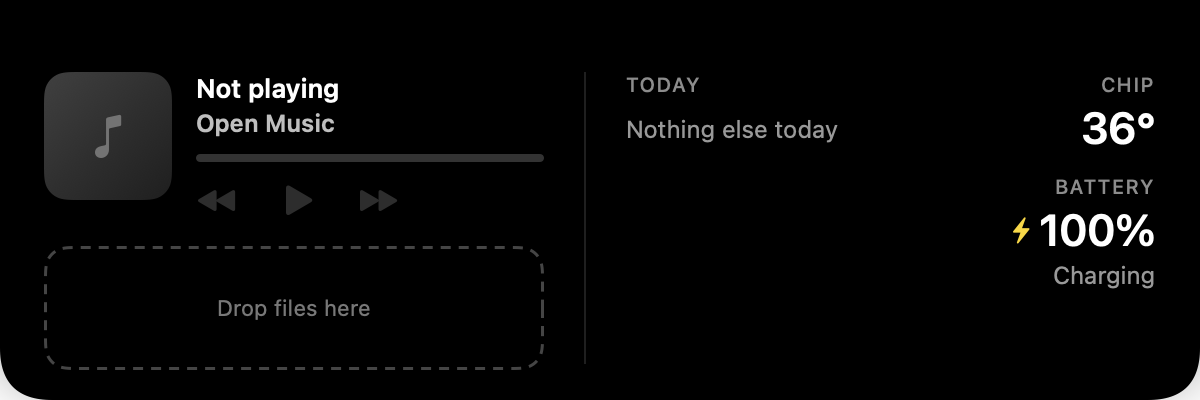
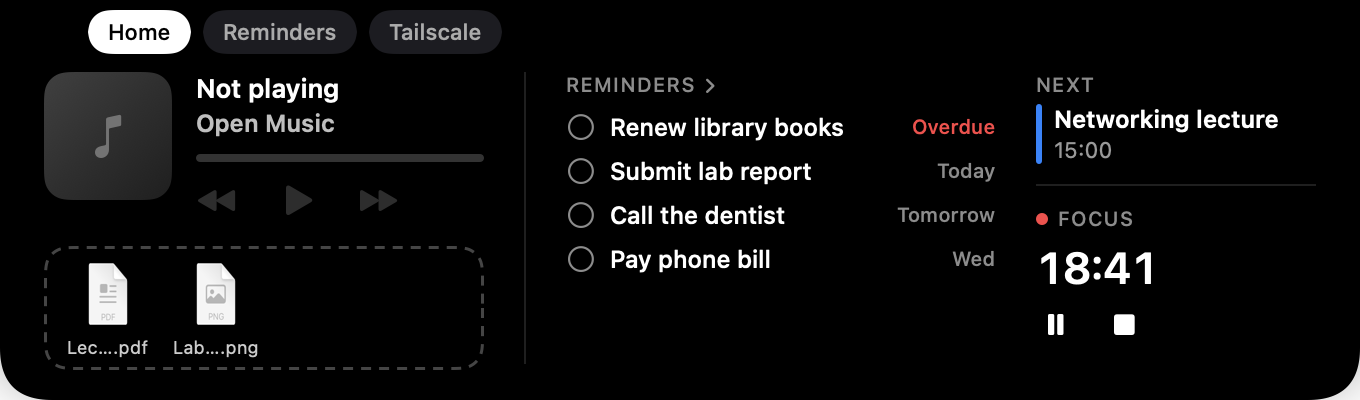
Update README screenshot to the new layout (demo data)

diff --git a/Notchpad/App/AppModel.swift b/Notchpad/App/AppModel.swift
@@ -38,9 +38,13 @@ final class AppModel: ObservableObject {
     @Published var tailscaleMessage: String?
     @Published var copiedDeviceID: String?
 
-    let shelf = ShelfStore(storageURL: FileManager.default
-        .urls(for: .applicationSupportDirectory, in: .userDomainMask)[0]
-        .appendingPathComponent("Notchpad/shelf.json"))
+    /// `--demo`: made-up data for README screenshots, so no real reminders or files show.
+    static let isDemo = CommandLine.arguments.contains("--demo")
+
+    let shelf = ShelfStore(storageURL: AppModel.isDemo
+        ? FileManager.default.temporaryDirectory.appendingPathComponent("notchpad-demo/shelf.json")
+        : FileManager.default.urls(for: .applicationSupportDirectory, in: .userDomainMask)[0]
+            .appendingPathComponent("Notchpad/shelf.json"))
     /// Set by the window controller: keeps the panel open while a file is dragged out.
     var onShelfDragActive: ((Bool) -> Void)?
 
@@ -77,6 +81,7 @@ final class AppModel: ObservableObject {
         music = isMusicRunning ? .idle : .notRunning
         if let tab = DebugTools.argument(after: "--tab").flatMap(PanelTab.init(rawValue:)) { selectedTab = tab }
         if CommandLine.arguments.contains("--focus-demo") { startFocus(.focus, minutes: 25) }
+        if Self.isDemo { loadDemo() }
         if let s = DebugTools.argument(after: "--focus-seconds").flatMap(Double.init) {
             focus.start(.focus, seconds: s, now: Date())
             askForNotificationsOnce()
@@ -262,6 +267,7 @@ final class AppModel: ObservableObject {
 
     /// Asks Music for the current track, position and artwork. Never launches Music.
     private func refreshMusic() {
+        guard !Self.isDemo else { return }
         guard isMusicRunning else {
             music = .notRunning
             artwork = nil
@@ -347,6 +353,7 @@ final class AppModel: ObservableObject {
     // MARK: Reminders
 
     private func refreshReminders() {
+        guard !Self.isDemo else { return }
         remindersAccess = remindersReader.access
         guard remindersAccess == .granted else { reminders = []; return }
         Task {
@@ -377,6 +384,7 @@ final class AppModel: ObservableObject {
     }
 
     private func refreshEvents() {
+        guard !Self.isDemo else { return }
         calendarAccess = calendarReader.access
         events = DayEvents.upcoming(calendarReader.todaysEvents(now: Date()), now: Date(), calendar: .current)
     }
@@ -392,5 +400,43 @@ private struct FixtureRunner: CommandRunning {
     let path: String
     func run(_ executable: String, _ arguments: [String]) -> (exitCode: Int32, output: Data)? {
         (0, arguments.first == "status" ? ((try? Data(contentsOf: URL(fileURLWithPath: path))) ?? Data()) : Data())
+    }
+}
+
+// MARK: Demo data (README screenshots only)
+
+extension AppModel {
+    fileprivate func loadDemo() {
+        let cal = Calendar.current
+        let now = Date()
+        let today = cal.startOfDay(for: now)
+        func day(_ d: Int) -> Date { cal.date(byAdding: .day, value: d, to: today)! }
+        func item(_ title: String, _ due: Date?, list: String = "Personal", order: Int = 0) -> ReminderSummary {
+            ReminderSummary(id: title, title: title, listID: list, listTitle: list, listOrder: order, due: due, dueHasTime: false)
+        }
+        reminders = [
+            item("Renew library books", day(-1)),
+            item("Submit lab report", day(0)),
+            item("Call the dentist", day(1)),
+            item("Pay phone bill", day(3)),
+            item("Plan weekend trip", nil),
+            item("Milk", nil, list: "Shopping", order: 1),
+        ]
+        remindersAccess = .granted
+        let start = cal.date(bySettingHour: 15, minute: 0, second: 0, of: today)!
+        events = [EventSummary(id: "demo", title: "Networking lecture", start: start,
+                               end: start.addingTimeInterval(7200), isAllDay: false,
+                               red: 0.04, green: 0.52, blue: 1)]
+        calendarAccess = .granted
+        music = .notRunning
+        focus.start(.focus, seconds: 18 * 60 + 42, now: now)
+        let dir = FileManager.default.temporaryDirectory.appendingPathComponent("notchpad-demo")
+        try? FileManager.default.createDirectory(at: dir, withIntermediateDirectories: true)
+        let files = ["Lecture notes.pdf", "Lab screenshot.png"].map { dir.appendingPathComponent($0) }
+        for f in files where !FileManager.default.fileExists(atPath: f.path) {
+            FileManager.default.createFile(atPath: f.path, contents: Data("demo".utf8))
+        }
+        shelf.clear()
+        shelf.add(files)
     }
 }
